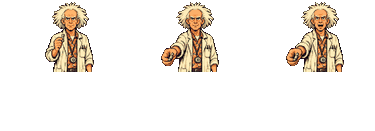
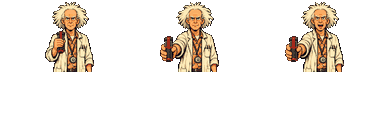
Pose di Doc e Nick e sprite dell'attrezzo da ChatGPT; build 19 nov 17:40

diff --git a/index.html b/index.html
@@ -10,7 +10,7 @@
 <meta name="theme-color" content="#000000">
 <script>/* (12 nov) pulizia: a ogni versione nuova si tolgono service worker e memoria vecchi e si ricarica una volta.
    Un service worker rimasto da versioni precedenti serviva script e indice delle voci superati (le voci non si sentivano). BUILD0 lo aggiorna pubblica.py. */
-(function(){var BUILD0='19 nov 17:00';try{if(!('serviceWorker' in navigator)||localStorage.getItem('mistero-build')===BUILD0)return;localStorage.setItem('mistero-build',BUILD0);window.__pulizia=1;
+(function(){var BUILD0='19 nov 17:40';try{if(!('serviceWorker' in navigator)||localStorage.getItem('mistero-build')===BUILD0)return;localStorage.setItem('mistero-build',BUILD0);window.__pulizia=1;
  var t=setTimeout(function(){location.reload()},4000);
  Promise.all([navigator.serviceWorker.getRegistrations().then(function(rs){return Promise.all(rs.map(function(r){return r.unregister()}))}),
    window.caches?caches.keys().then(function(ks){return Promise.all(ks.map(function(k){return caches.delete(k)}))}):0]).then(function(){clearTimeout(t);location.reload()},function(){clearTimeout(t);location.reload()})}catch(e){}})();</script>
@@ -81,11 +81,11 @@ button:active{background:#1a2438;transform:translate(1px,1px)}
 <div id="probe" style="position:fixed;visibility:hidden;pointer-events:none;padding:env(safe-area-inset-top) env(safe-area-inset-right) env(safe-area-inset-bottom) env(safe-area-inset-left)"></div>
 <div id="rot"><i></i><div>RUOTA IL TELEFONO<br>IN ORIZZONTALE</div></div>
 
-<script src="js/motore.js?v=19nov1700"></script>
-<script src="js/scena-demo.js?v=19nov1700"></script>
-<script src="js/scena-tutti.js?v=19nov1700"></script>
-<script src="js/scena-ramones.js?v=19nov1700"></script>
-<script src="js/scena-capitolo2.js?v=19nov1700"></script>
+<script src="js/motore.js?v=19nov1740"></script>
+<script src="js/scena-demo.js?v=19nov1740"></script>
+<script src="js/scena-tutti.js?v=19nov1740"></script>
+<script src="js/scena-ramones.js?v=19nov1740"></script>
+<script src="js/scena-capitolo2.js?v=19nov1740"></script>
 <script>
 (()=>{
 "use strict";
@@ -2162,7 +2162,7 @@ document.addEventListener('wheel',e=>{if(e.ctrlKey)e.preventDefault()},{passive:
 document.addEventListener('visibilitychange',()=>{if(document.hidden){if(SILENT_EL)SILENT_EL.pause()}else if(AU.ctx)unmuteSilentSwitch();if(AU.ctx){if(document.hidden)AU.ctx.suspend();else AU.ctx.resume()}});
 
 /* aggiornamento automatico: se sul server c'e' una versione piu' nuova di questa, ricarica una volta (cancella anche le copie salvate) */
-const BUILD='19 nov 17:00';
+const BUILD='19 nov 17:40';
 {const ve=document.getElementById('ver');if(ve)ve.textContent='v. '+BUILD;
  if(location.protocol.startsWith('http')){
   fetch(location.pathname+'?nc='+Date.now(),{cache:'no-store'}).then(r=>r.ok?r.text():'').then(t=>{

diff --git a/sw.js b/sw.js
@@ -1,7 +1,7 @@
 // Service worker: il gioco funziona offline.
 // - i file del gioco (immagini, audio, icone) sono salvati alla prima apertura (sempre scaricati freschi: cache reload) e serviti dalla memoria del telefono;
 // - la pagina, gli script (.js), gli indici (.json) e questo file si chiedono prima alla rete (cosi' gli aggiornamenti arrivano subito) e, senza rete, si usa la copia salvata.
-const VERSION = "19 nov 17:00";
+const VERSION = "19 nov 17:40";
 const CACHE = "mistero-" + VERSION;
 const FILES = [
   "./",
@@ -570,6 +570,8 @@ const FILES = [
   "img/char-r19/ramone-4.png",
   "img/emb/ascia_r1.png",
   "img/emb/ascia_r2.png",
+  "img/emb/attrezzo_chiuso_grande_r1.png",
+  "img/emb/attrezzo_chiuso_icona_r1.png",
   "img/emb/attrezzo_grande_r1.png",
   "img/emb/attrezzo_icona_r1.png",
   "img/emb/auto164_34fronte.png",
